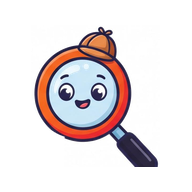
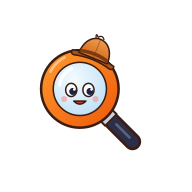
Uygulama simgesi yeni logodaki büyüteçle değiştirildi
Claude-Session: https://claude.ai/code/session_01BGhwwcp2tBAZSNHBfhEdVw

Changed region(s): [[0.1562, 0.125, 0.8438, 0.875]]

diff --git a/sw.js b/sw.js
@@ -1,1 +1,1 @@
-(()=>{const a="kabuk-4.2-760789-logo2",o=["./","index.html","stil.css?v=4.2-760789","app.js?v=4.2-760789","manifest.webmanifest","logo-koyu.png?v=4.2-760789","favicon.png","ikon-192.png","ikon-512.png","yasal.html"];self.addEventListener("install",e=>{e.waitUntil(caches.open(a).then(t=>t.addAll(o)).then(()=>self.skipWaiting()))});self.addEventListener("activate",e=>{e.waitUntil(caches.keys().then(t=>Promise.all(t.filter(n=>n!==a).map(n=>caches.delete(n)))).then(()=>self.clients.claim()))});self.addEventListener("fetch",e=>{const t=new URL(e.request.url);if(!(e.request.method!=="GET"||t.origin!==location.origin)&&!t.pathname.endsWith(".mp4")){if(t.pathname.endsWith("/veri.json")){e.respondWith(fetch(e.request).then(n=>{const c=n.clone();return caches.open(a).then(s=>s.put("veri.json",c)),n}).catch(()=>caches.match("veri.json")));return}if(e.request.mode==="navigate"||t.pathname.endsWith("/")||t.pathname.endsWith(".html")){e.respondWith(r(e.request));return}e.respondWith(caches.match(e.request).then(n=>n||fetch(e.request)))}});function r(e){const t=fetch(e,{cache:"no-store"}).then(s=>{if(s.ok){const h=s.clone();caches.open(a).then(i=>i.put(e,h))}return s}),n=()=>caches.match(e,{ignoreSearch:!0}).then(s=>s||caches.match("index.html")),c=new Promise(s=>setTimeout(s,4e3)).then(n);return Promise.race([t.catch(n),c.then(s=>s||t)])}})();
+(()=>{const a="kabuk-4.2-760789-ikon3",o=["./","index.html","stil.css?v=4.2-760789","app.js?v=4.2-760789","manifest.webmanifest","logo-koyu.png?v=4.2-760789","favicon.png","ikon-192.png","ikon-512.png","yasal.html"];self.addEventListener("install",e=>{e.waitUntil(caches.open(a).then(t=>t.addAll(o)).then(()=>self.skipWaiting()))});self.addEventListener("activate",e=>{e.waitUntil(caches.keys().then(t=>Promise.all(t.filter(n=>n!==a).map(n=>caches.delete(n)))).then(()=>self.clients.claim()))});self.addEventListener("fetch",e=>{const t=new URL(e.request.url);if(!(e.request.method!=="GET"||t.origin!==location.origin)&&!t.pathname.endsWith(".mp4")){if(t.pathname.endsWith("/veri.json")){e.respondWith(fetch(e.request).then(n=>{const c=n.clone();return caches.open(a).then(s=>s.put("veri.json",c)),n}).catch(()=>caches.match("veri.json")));return}if(e.request.mode==="navigate"||t.pathname.endsWith("/")||t.pathname.endsWith(".html")){e.respondWith(r(e.request));return}e.respondWith(caches.match(e.request).then(n=>n||fetch(e.request)))}});function r(e){const t=fetch(e,{cache:"no-store"}).then(s=>{if(s.ok){const h=s.clone();caches.open(a).then(i=>i.put(e,h))}return s}),n=()=>caches.match(e,{ignoreSearch:!0}).then(s=>s||caches.match("index.html")),c=new Promise(s=>setTimeout(s,4e3)).then(n);return Promise.race([t.catch(n),c.then(s=>s||t)])}})();
